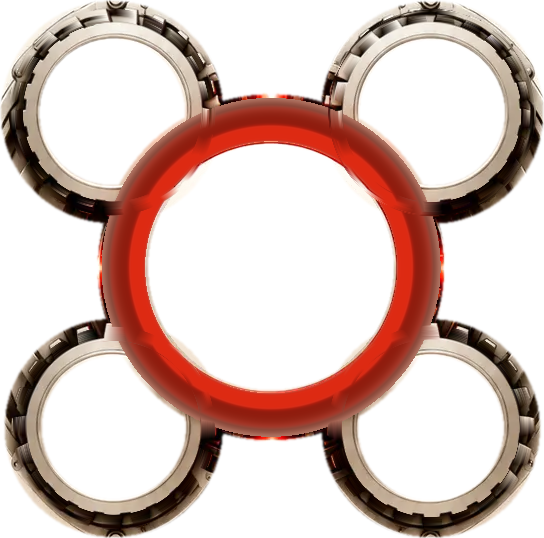
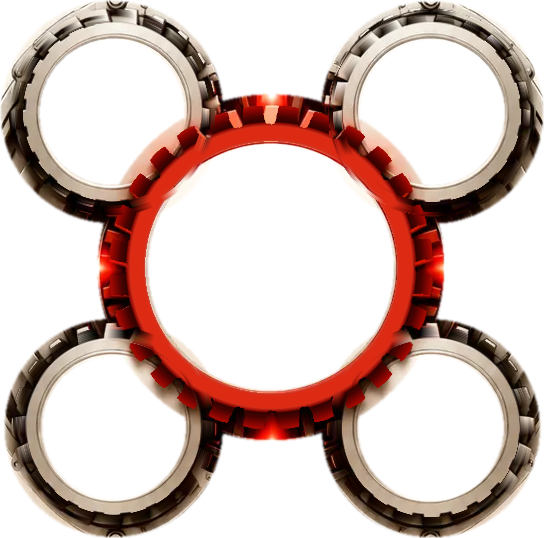
Machine animation: the red gear stays crisp while it turns
The turning red gear was an averaged tooth, opaque across its gaps, so
the averaged smear between the teeth turned with it and read as doubled
teeth. It turns exactly once, so it is now the art's own gear: the
outline is the tooth shape all 28 teeth share, the colour is the art's
wherever its gear shows (the plain tooth where a shaft sat in front or
a glow lay over it), and the gaps are clear. The base behind it now
fills those gaps with the real dark interior rather than an average
that included the red teeth.

Claude-Session: https://claude.ai/code/session_01PbAnrJaT2h2NzokuXUFqJZ

Changed region(s): [[0.1875, 0.1784, 0.8125, 0.8327]]

diff --git a/tools/machine/build_machine.py b/tools/machine/build_machine.py
@@ -693,11 +693,17 @@ def build(kind, cfg):
         Pred, _, _ = polar(redness, g["c"], g["band"][0], g["band"][1], nth)
         T, mad, per = fold_template(P, g["N"])
         if g["red"]:
-            Tred, _, _ = fold_template(Pred[..., None], g["N"])
-            alpha_t = np.clip(Tred[..., 0] * 1.6, 0, 1)
-            # the inner solid band of the ring is always opaque
-            alpha_t[rs < g["band"][0] + 10] = 1
+            # the tooth shape every tooth shares, from the art's bright red
+            # (the median over all teeth ignores the shaft glows and the dark
+            # red interior seen between the teeth)
+            cr, cg_, cb = clean[..., 0], clean[..., 1], clean[..., 2]
+            real = np.clip((cr - np.maximum(cg_, cb) - 60) / 50, 0, 1) * np.clip((cr - 110) / 40, 0, 1)
+            Pa, _, _ = polar(real.astype(np.float32), g["c"], g["band"][0], g["band"][1], nth)
+            Ta, _, _ = fold_template(Pa[..., None], g["N"])
+            alpha_t = (Ta[..., 0] > 0.5).astype(np.float32)
+            alpha_t[rs < g["band"][0] + 8] = 1
             tooth = alpha_t > 0.5
+            g["real"] = real
         else:
             # In the median tooth the metal is bright and the gaps (whatever
             # lies behind them, averaged) are dark, so brightness separates them.
@@ -747,9 +753,32 @@ def build(kind, cfg):
     for g, P, rs, th, T, alpha_t, tooth in prepared:
         r_out = int(np.ceil(g["band"][1])) + 2
         box = (int(round(g["c"][0])) - r_out, int(round(g["c"][1])) - r_out, int(round(g["c"][0])) + r_out, int(round(g["c"][1])) + r_out)
-        rgb, inside = unpolar(T, g["c"], rs, th, (H, W), box)
-        a, _ = unpolar(alpha_t, g["c"], rs, th, (H, W), box)
-        a = np.where(inside, a, 0)
+        if g["red"]:
+            # The red gear turns exactly once, so it needs no periodic tooth:
+            # it is the art's own gear, cut out by its red (the gaps clear),
+            # which stays as crisp as the art at every angle.
+            bx0, by0, bx1, by1 = box
+            sub = clean[by0:by1, bx0:bx1].astype(np.float32)
+            real = g["real"][by0:by1, bx0:bx1]
+            shape, inside = unpolar(alpha_t, g["c"], rs, th, (H, W), box)
+            shape = (np.where(inside, shape, 0) > 0.5).astype(np.float32)
+            # where a glow lies over the teeth (it stays put on the front
+            # layer), the turning gear takes its plain tooth colour instead
+            hot_p = (P.mean(-1) - T.mean(-1)) > 28
+            hot_p = ndi.binary_dilation(ndi.binary_opening(hot_p, np.ones((3, 3))), np.ones((5, 7))).astype(np.float32)
+            hot, _ = unpolar(hot_p, g["c"], rs, th, (H, W), box)
+            tcol, _ = unpolar(T, g["c"], rs, th, (H, W), box)
+            hot = np.clip(cv2.GaussianBlur(np.where(inside, hot, 0).astype(np.float32), (0, 0), 1.5), 0, 1)
+            # the outline is the shared tooth shape everywhere; the colour is
+            # the art's where its gear shows, the plain tooth where something
+            # sat in front of it (the shafts) or a glow lay over it
+            w = np.clip(cv2.GaussianBlur((real > 0.6).astype(np.float32), (0, 0), 1.0), 0, 1) * (1 - hot)
+            rgb = sub * w[..., None] + tcol * (1 - w[..., None])
+            a = np.clip(cv2.GaussianBlur(shape, (0, 0), 0.6), 0, 1)
+        else:
+            rgb, inside = unpolar(T, g["c"], rs, th, (H, W), box)
+            a, _ = unpolar(alpha_t, g["c"], rs, th, (H, W), box)
+            a = np.where(inside, a, 0)
         layers[g["id"]] = (box, np.dstack([rgb, a * 255]))
         gears.append({"id": g["id"], "N": g["N"], "c": [round(g["c"][0] - x0, 2), round(g["c"][1] - y0, 2)],
                       "box": [box[0] - x0, box[1] - y0, box[2] - box[0], box[3] - box[1]],
